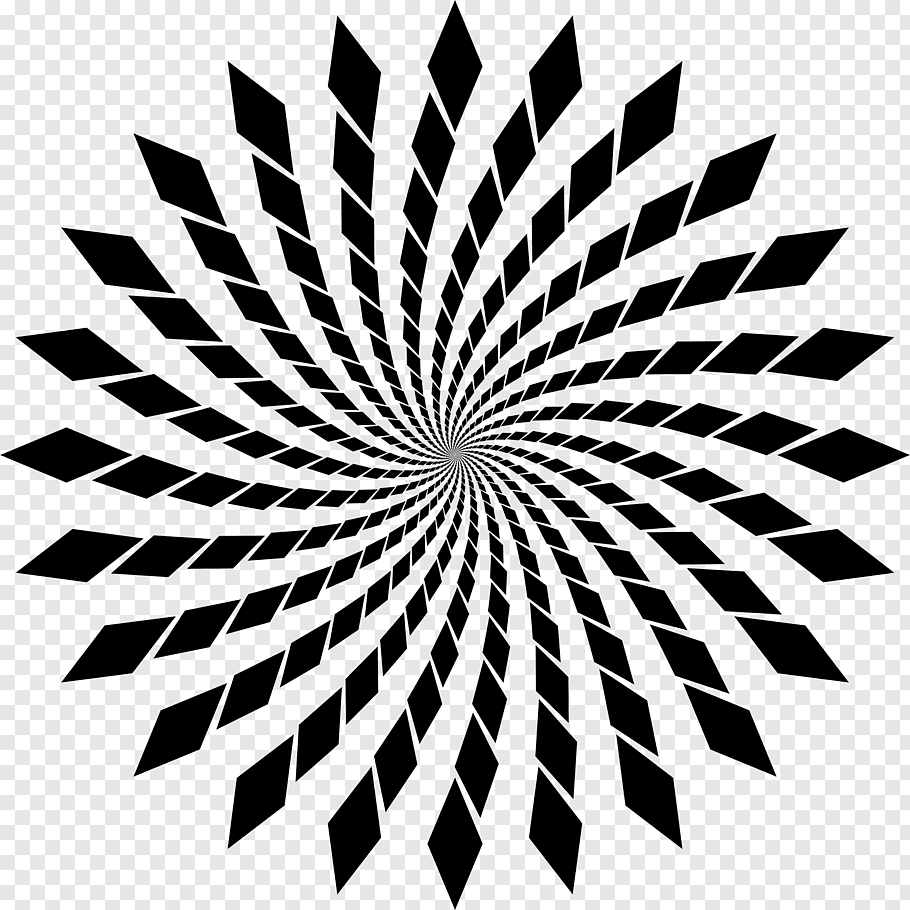
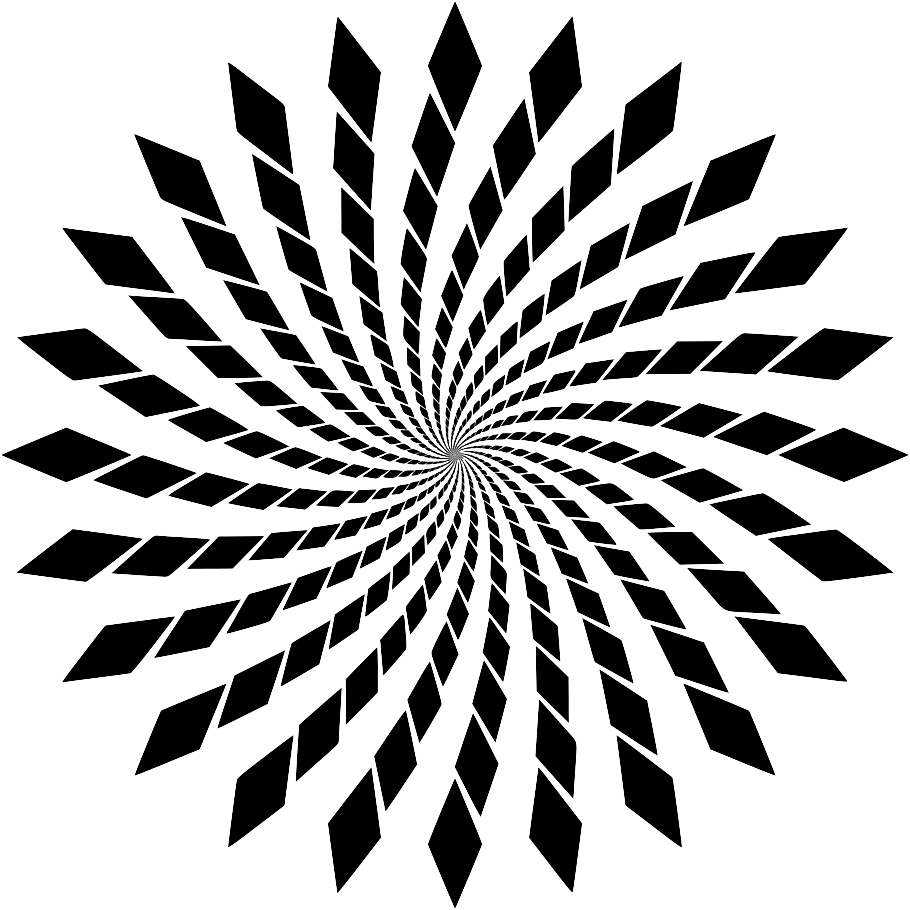
update portfolio and coronavirus

diff --git a/coronavirus-search/js/index.js b/coronavirus-search/js/index.js
@@ -24,7 +24,7 @@ const playWeeks = async function () {//v is a Vue instance
     for (let i=0; i < AXIS.length; i++) {
         
             colorByWeek(AXIS[i]);
-            await sleep(500); 
+            await sleep(1000); 
     }
     //   AXIS.forEach(wk => {
     //     colorByWeek(wk);
@@ -34,7 +34,7 @@ const playWeeks = async function () {//v is a Vue instance
 
 let myVue; // Vue instance for slider 
 
-// Provide for pausing as slider moves to new Weeks 
+// Provide for pausing as slider moves to new weeks 
 function sleep(ms) { return new Promise(resolve => setTimeout(resolve, ms)); }
 
 const GREYVALUE = -1;
@@ -52,8 +52,8 @@ const MARGIN = { top: 0, right: 0, bottom: 0, left: 0 },
     MAPWIDTH = 1440 - MARGIN.left - MARGIN.right,
     MAPHEIGHT = 750 - MARGIN.top - MARGIN.bottom;
 
-// Perceptually appropriate green values from 
-// https://colorbrewer2.org/#type=sequential&scheme=BuGn&n=3 
+// Perceptually appropriate orange-brown values from 
+// https://colorbrewer2.org/
 // const cbArray = ['rgb(225,225,225)', 'rgb(229,245,249)', 'rgb(204,236,230)', 'rgb(153,216,201)', 'rgb(102,194,164)', 'rgb(65,174,118)', 'rgb(35,139,69)', 'rgb(0,109,44)', 'rgb(0,68,27)'];
 const cbArray = ['rgb(235,235,235)', '#fff7ec','#fee8c8','#fdd49e','#fdbb84','#fc8d59','#ef6548','#d7301f','#b30000','#7f0000'];
 
@@ -67,7 +67,7 @@ function color(interest1, week) { // Interest1 is 0-1 scaled relative value of w
     // Interest1 is the regional week interest
     // Interest1 is scaled up by week interest then adjusted down by 0.35 
     // to create optimum perceptual color range
-    interest1 = Math.round(interest1 * weekInterest * 0.35);//may need to change scale value 
+    interest1 = Math.round(interest1 * weekInterest * 0.25);//may need to change scale value 
     if (interest1 >= cbArray.length) interest1 = cbArray.length - 1
     return cbArray[interest1]
 }

diff --git a/portfolio/index.html b/portfolio/index.html
@@ -18,7 +18,7 @@
 
       <nav>
         <a class="name">Dan <strong>Grunebaum</strong></a>
-        <img src="spiral.jpg" alt="spiral" class="spiral">
+        <img src="illusion.png" alt="spiral" class="spiral">
         <!-- <a href="#dataviz">Data Viz</a> -->
         <!-- <a href="#words">Words</a> -->
         <a href="index.html">Work</a>
@@ -56,6 +56,13 @@
         <h3>Asian American population growth and distribution (JavaScript, D3)
           <a href="https://dangrunebaum.github.io/asian-america/index.html" target="_blank">View project</a></h3>
 
+          <h2>Coronavirus Search Interest</h2>
+          <a href="https://dangrunebaum.github.io/coronavirus-search/" target="_blank">
+            <img id="card" src="images/coronavirus.png" alt="Coronavirus Search Interest">
+          </a>
+          <h3>Google Search interest across the world for the term Coronavirus, Jan-May 2020. (JavaScript, D3, Vue)
+            <a href="https://dangrunebaum.github.io/coronavirus-search/" target="_blank">View project </a></h3>
+  
         <h2>NTV Facebook Dashboard</h2>
         <a href="https://dangrunebaum.github.io/final-project/index.html" target="_blank">
           <img id="card" src="images/ntv.png" alt="NTV Dashboard">

diff --git a/coronavirus-search/style.css b/coronavirus-search/style.css
@@ -1,6 +1,7 @@
 body {
     background-color:white;
     color: rgb(rgb(75, 75, 75));
+    font-family: 'Roboto', sans-serif;
 }
 
 .d3-tip {
@@ -122,6 +123,19 @@ img {
     position: absolute;
     left: 100px;
     bottom: 30px;
+}
+
+.zero {
+    position: absolute;
+    left: 105px;
+    bottom: 15px;
+    color: rgb(rgb(75, 75, 75));
+}
+
+.zero span {
+    position: absolute;
+    left: 213px;
+    color: rgb(rgb(75, 75, 75));
 }
 
 a {

diff --git a/portfolio/css/styles.css b/portfolio/css/styles.css
@@ -89,14 +89,14 @@ nav a:hover {
 
 .name {
     position: absolute;
-    left: 20px;
+    left: 70px;
     color: #2D3319;
 }
 
 .spiral {
     animation: rotation 20s infinite linear;
     position: absolute;
-    left: 290px;
+    left: 30px;
     top: 27px;
     width: 2%;
 }

diff --git a/coronavirus-search/index.html b/coronavirus-search/index.html
@@ -39,6 +39,7 @@
     </div>
 
     <img src="key.png">
+    <div class="zero">0<span>100</span></div>
     <script
         src="https://cdn.jsdelivr.net/npm/vue-slider-component@latest/dist/vue-slider-component.umd.min.js"></script>
     <script src="js/index.js"></script>
